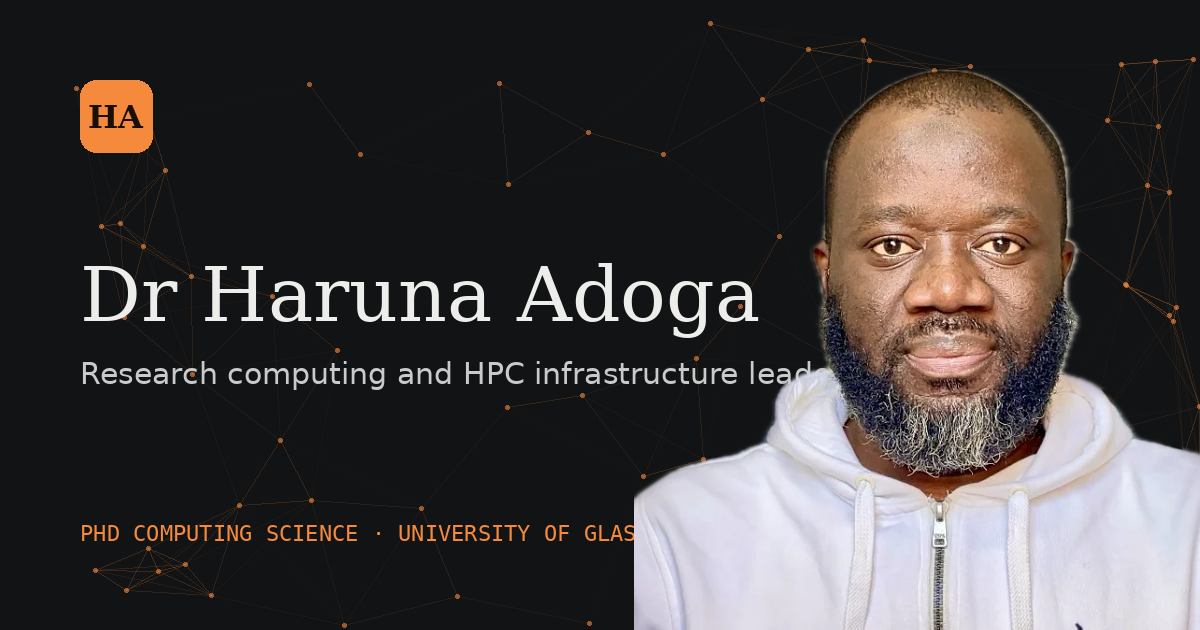
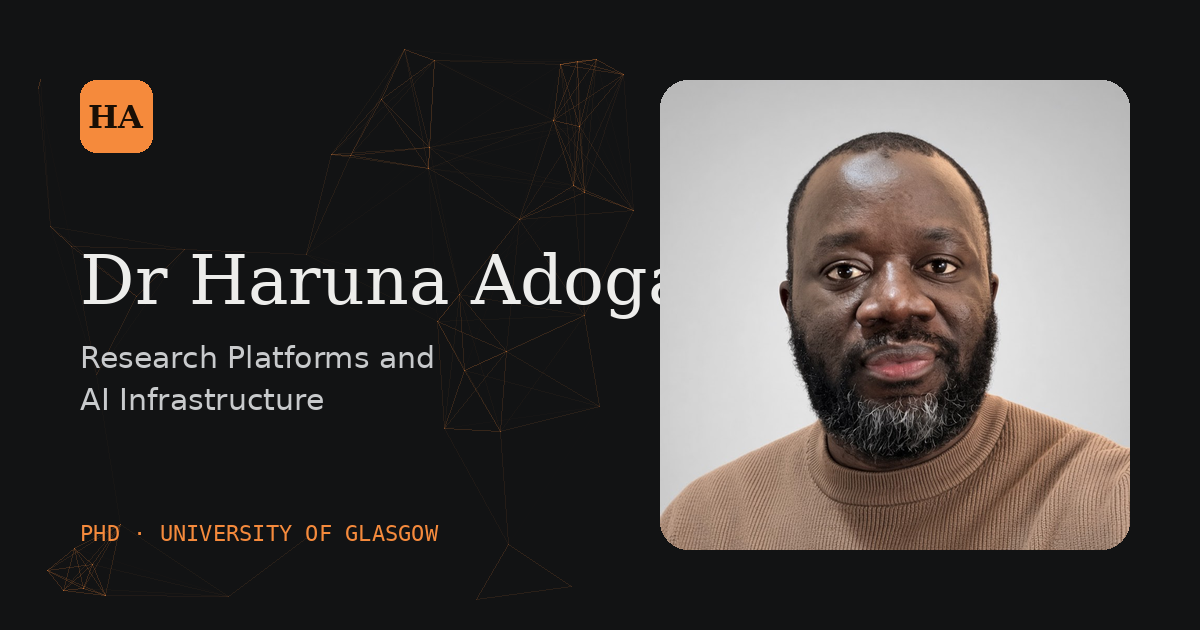
Update portrait, add X, TikTok and Medium, use generic role title
Replace the employer-specific headline with Research Platforms and AI
Infrastructure, add the X, TikTok and Medium profiles, and list the
latest Medium stories on the media page.

diff --git a/src/assets/css/main.css b/src/assets/css/main.css
@@ -188,7 +188,7 @@ button.chip { cursor: pointer; }
 
 .portrait { position: relative; }
 .portrait__frame {
-  position: relative; aspect-ratio: 4 / 4.6; border-radius: 22px; overflow: hidden;
+  position: relative; aspect-ratio: 1 / 1.06; border-radius: 22px; overflow: hidden;
   background:
     radial-gradient(120% 90% at 20% 0%, color-mix(in srgb, var(--accent) 38%, transparent), transparent 60%),
     linear-gradient(160deg, var(--accent-soft), var(--surface-2));
@@ -197,9 +197,9 @@ button.chip { cursor: pointer; }
 .portrait__frame::before {
   content: ""; position: absolute; inset: 0;
   background-image: linear-gradient(var(--line) 1px, transparent 1px), linear-gradient(90deg, var(--line) 1px, transparent 1px);
-  background-size: 34px 34px; opacity: 0.45; mask-image: linear-gradient(to bottom, #000, transparent 85%);
+  background-size: 34px 34px; opacity: 0.45; mask-image: linear-gradient(to bottom, #000, transparent 85%); display: none;
 }
-.portrait__frame img { position: absolute; inset: 6% 0 0 0; width: 100%; height: 94%; object-fit: cover; object-position: center top; }
+.portrait__frame img { position: absolute; inset: 0; width: 100%; height: 100%; object-fit: cover; object-position: center top; }
 .portrait__card {
   position: absolute; left: -18px; bottom: 26px; padding: 14px 18px; border-radius: 14px;
   background: var(--surface); border: 1px solid var(--line); box-shadow: var(--shadow); max-width: 250px;
@@ -398,7 +398,7 @@ button.chip { cursor: pointer; }
 .pager .next { text-align: right; grid-column: 2; }
 @media (max-width: 560px) { .pager { grid-template-columns: 1fr; } .pager .next { grid-column: auto; text-align: left; } }
 .author { display: flex; gap: 18px; align-items: center; padding: 22px; border-radius: 14px; background: var(--surface-2); }
-.author img { width: 72px; height: 72px; border-radius: 50%; object-fit: cover; object-position: top; background: var(--accent-soft); flex: none; }
+.author img { width: 72px; height: 72px; border-radius: 50%; object-fit: cover; background: var(--accent-soft); flex: none; }
 .author p { margin: 0; font-size: 0.95rem; color: var(--ink-2); }
 
 /* ───────── Footer ───────── */
